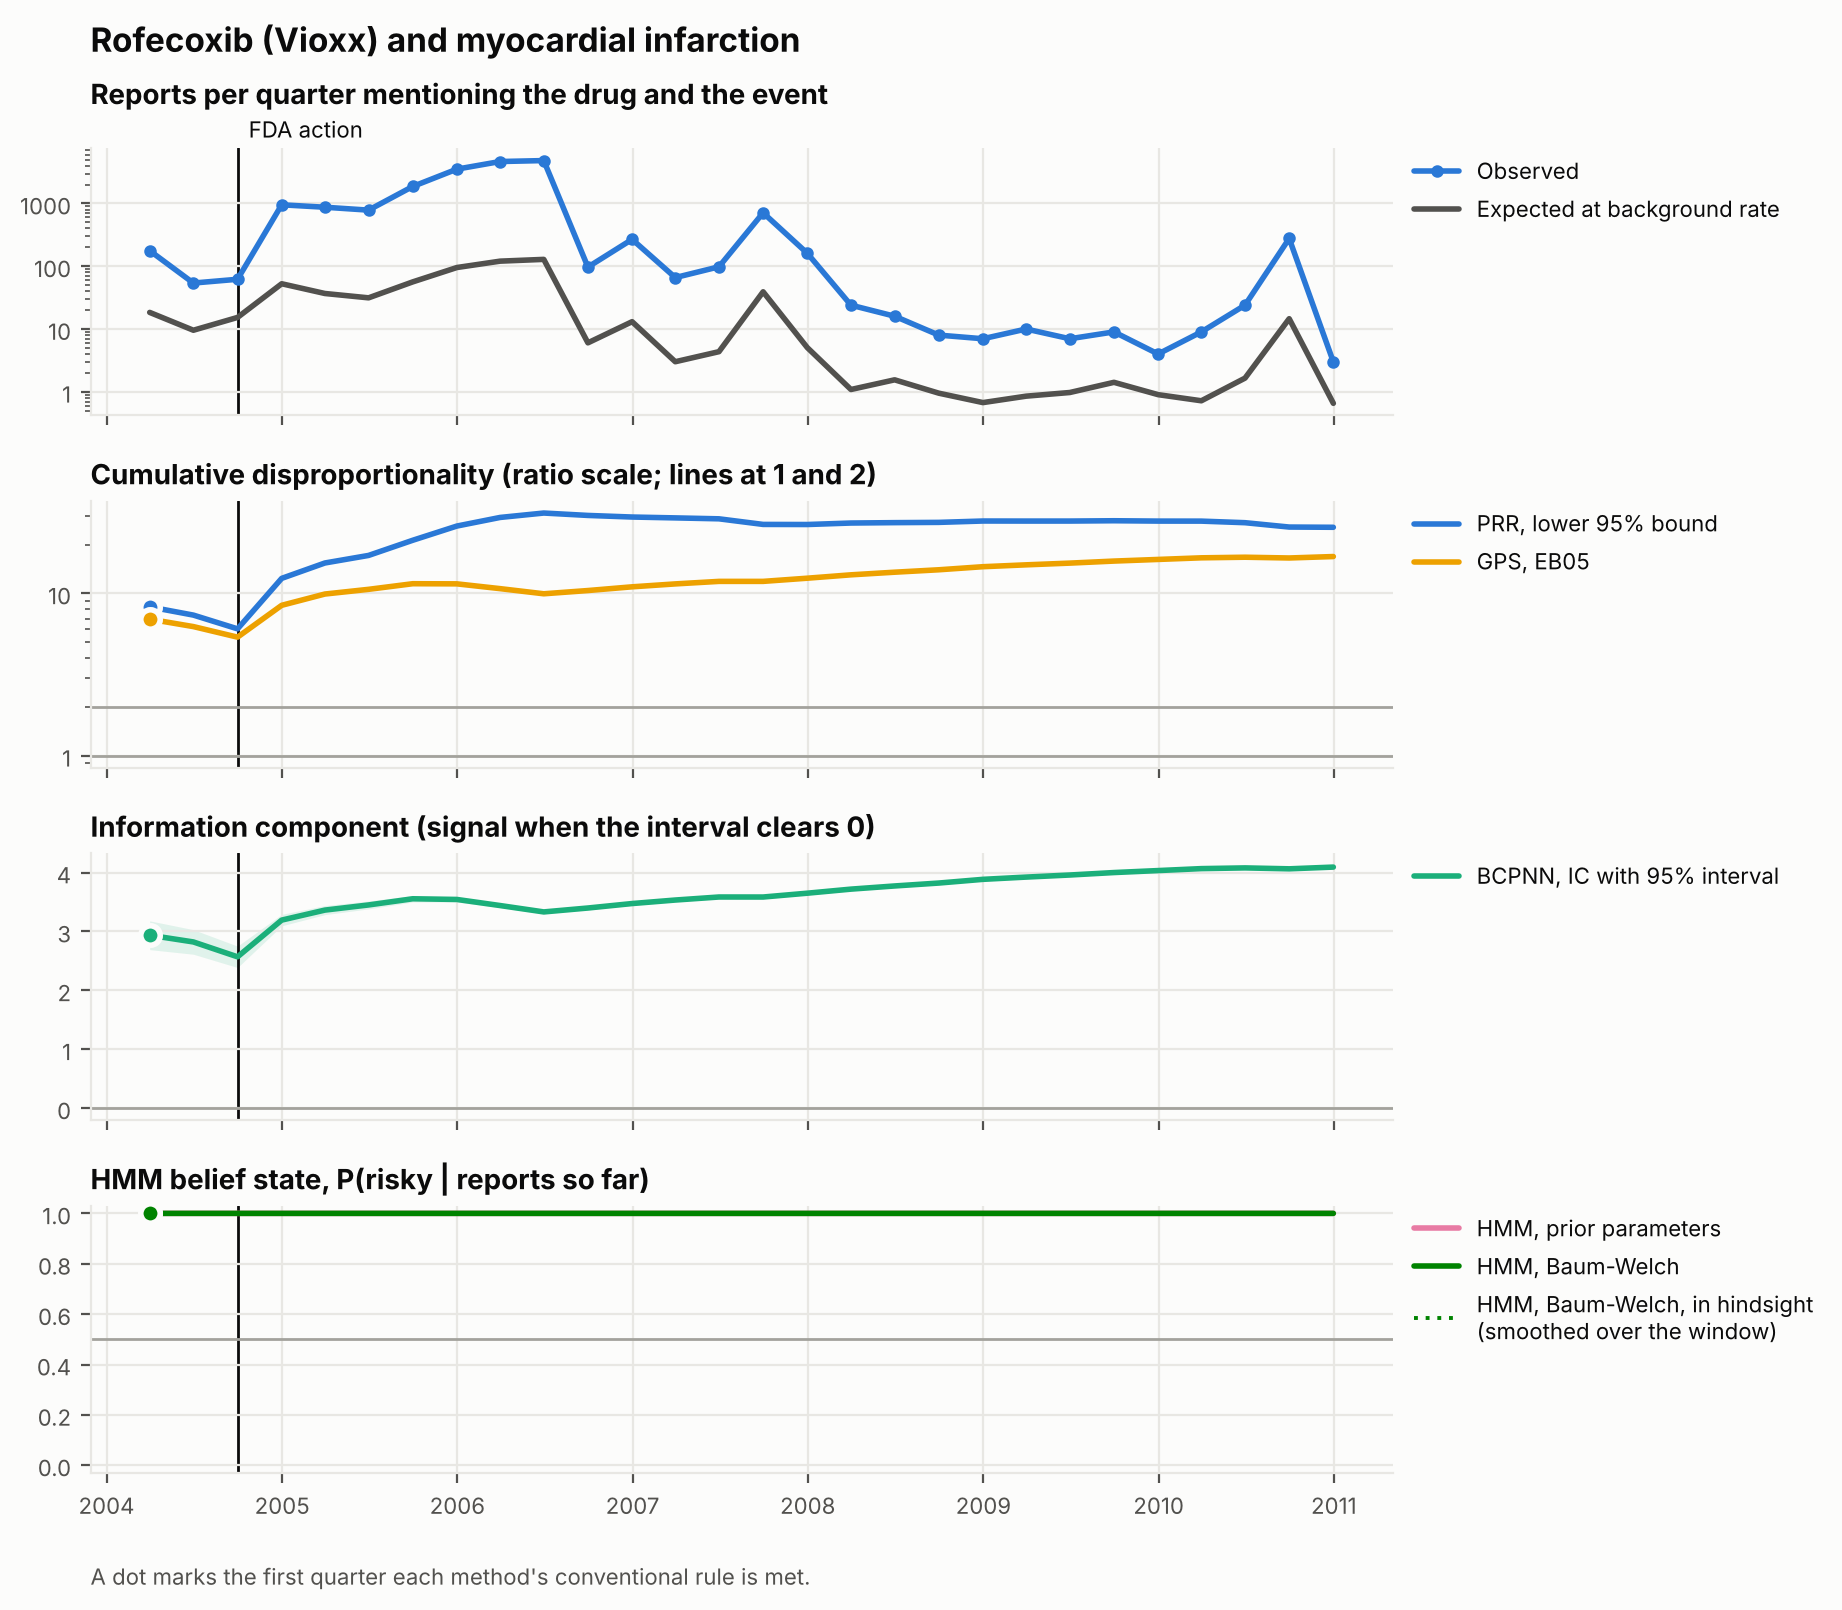
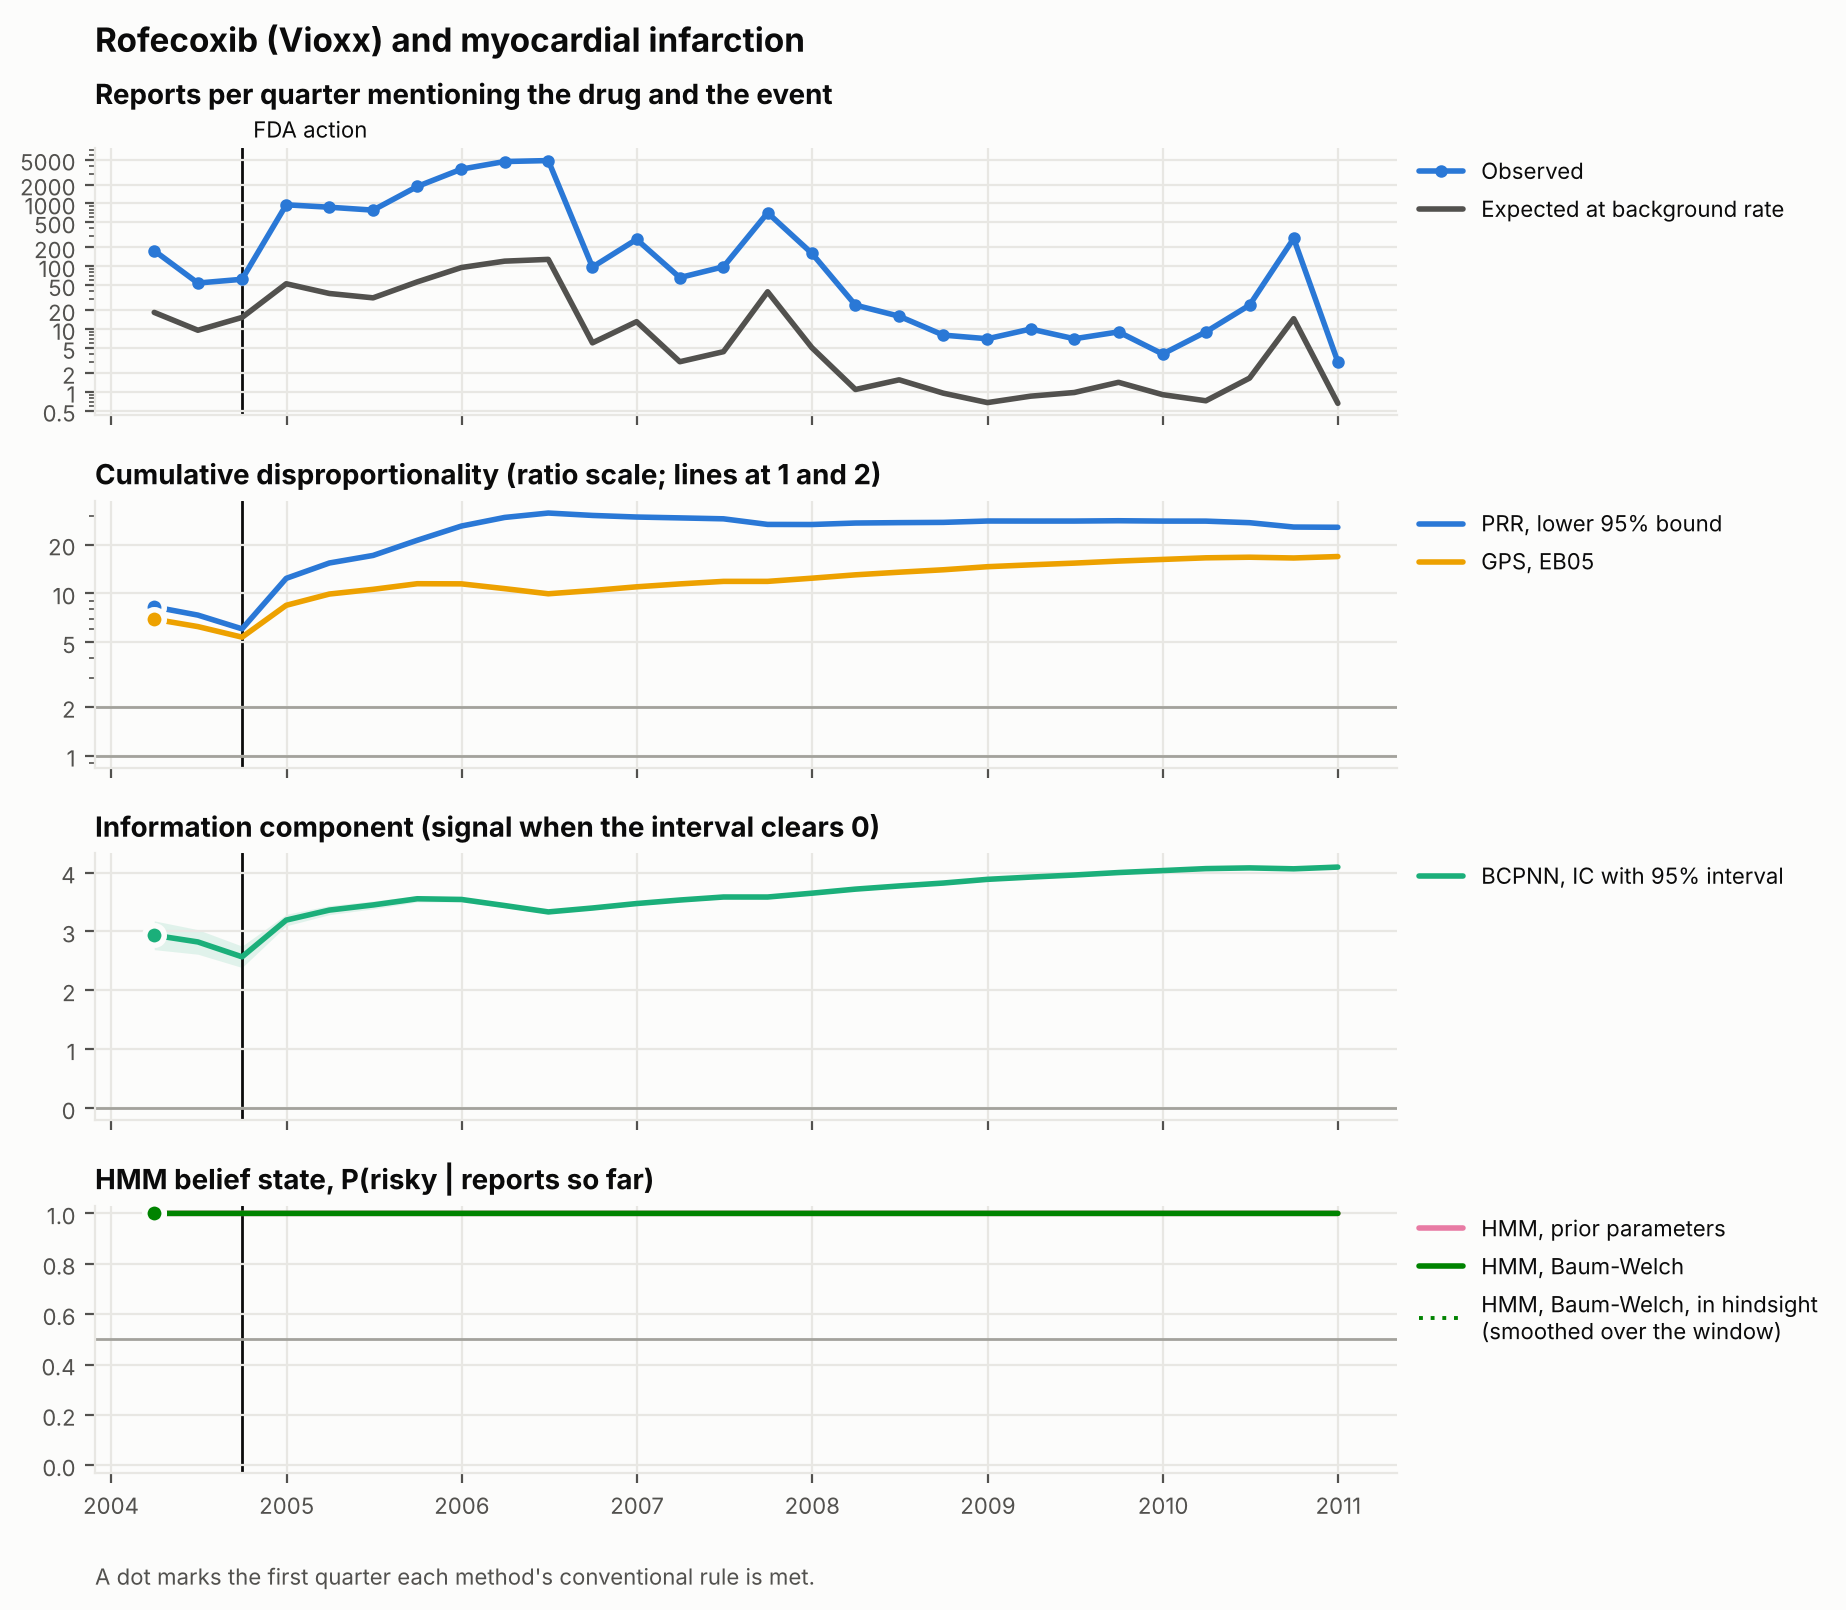
Improve log axis ticks

diff --git a/src/kwwk/plots.py b/src/kwwk/plots.py
@@ -48,8 +48,9 @@ def setup():
 def _plain_log(ax):
     """Log axis with plain tick labels (0.5, 1, 2, 10) instead of powers of ten."""
     ax.set_yscale("log")
-    fmt = matplotlib.ticker.FuncFormatter(lambda v, _: f"{v:g}")
-    ax.yaxis.set_major_formatter(fmt)
+    # label 1, 2 and 5 in each decade so a narrow range still gets a readable scale
+    ax.yaxis.set_major_locator(matplotlib.ticker.LogLocator(base=10, subs=(1.0, 2.0, 5.0)))
+    ax.yaxis.set_major_formatter(matplotlib.ticker.FuncFormatter(lambda v, _: f"{v:g}"))
     ax.yaxis.set_minor_formatter(matplotlib.ticker.NullFormatter())
 
 
